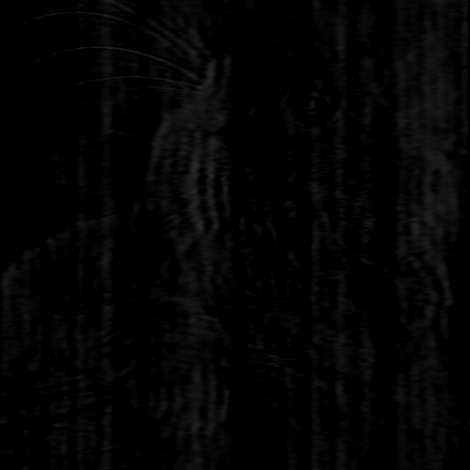
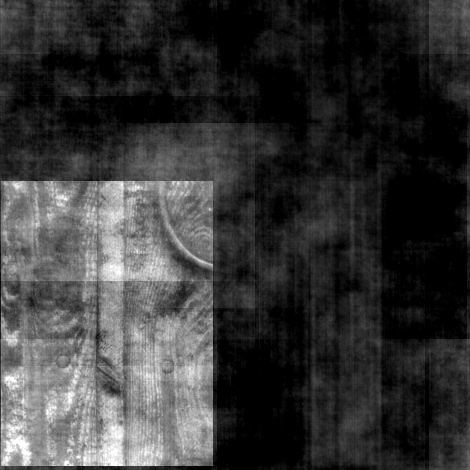
edit crop function

diff --git a/image_processing.py b/image_processing.py
@@ -19,12 +19,12 @@ def RGB2Gray(path):
 
 def mag_phase_mix(phase_img, mag_img, out_path,x1_start,x1_end, y1_start, y1_end,x2_start,x2_end, y2_start, y2_end):
 
+    dim = len(mag_img)
+    crop(x2_start,x2_end, y2_start, y2_end, dim, mag_img,10)
     f_mag = np.fft.fft2(mag_img)
-    dim = len(f_mag)
-    crop(x2_start,x2_end, y2_start, y2_end, dim, f_mag)
 
+    crop(x1_start,x1_end, y1_start, y1_end, dim, phase_img,0)
     f_phase = np.fft.fft2(phase_img)
-    crop(x1_start,x1_end, y1_start, y1_end, dim, f_phase)
 
 
     combined = np.multiply(np.abs(f_mag), np.exp(1j * np.angle(f_phase)))
@@ -33,28 +33,33 @@ def mag_phase_mix(phase_img, mag_img, out_path,x1_start,x1_end, y1_start, y1_end
 
 
 def mix_with_uniform_mag(phase_img,out_path,x_start,x_end, y_start, y_end):
+    dim = len(phase_img)
+    crop(x_start,x_end, y_start, y_end, dim, phase_img,0)
     f_phase = np.fft.fft2(phase_img)
-    dim = len(f_phase)
-    crop(x_start,x_end, y_start, y_end, dim, f_phase)
-    combined = np.multiply(np.ones(f_phase.shape)*255, np.exp(1j * np.angle(f_phase)))
+    f_mag = np.fft.fft2(np.ones(f_phase.shape))
+
+    combined = np.multiply(np.abs(f_mag), np.exp(1j * np.angle(f_phase)))
 
     phase_only = np.real(np.fft.ifft2(combined))
     return cv2.imwrite(out_path, phase_only)
 
 
 def mix_with_uniform_phase(mag_img,out_path,x_start,x_end, y_start, y_end):
+    dim = len(mag_img)
+    crop(x_start,x_end, y_start, y_end, dim, mag_img,10)
     f_mag = np.fft.fft2(mag_img)
-    dim = len(f_mag)
-    crop(x_start,x_end, y_start, y_end, dim, f_mag)
+
     mag_only = np.real(np.fft.ifft2(np.abs(f_mag)))
 
     return cv2.imwrite(out_path, mag_only)
 
 
-def crop(x_start,x_end, y_start, y_end, dim, img):
+def crop(x_start,x_end, y_start, y_end, dim, img, fill_value):
     for i in range(dim):
         for j in range(dim):
-            if (i>x_start or i<x_end) and (j<y_start or j>y_end ):
-                img[i][j] = 1
+            if (x_start<j<x_end) and (y_start< i<y_end ):
+                pass
+            else:
+                img[i][j] = fill_value
 
 
